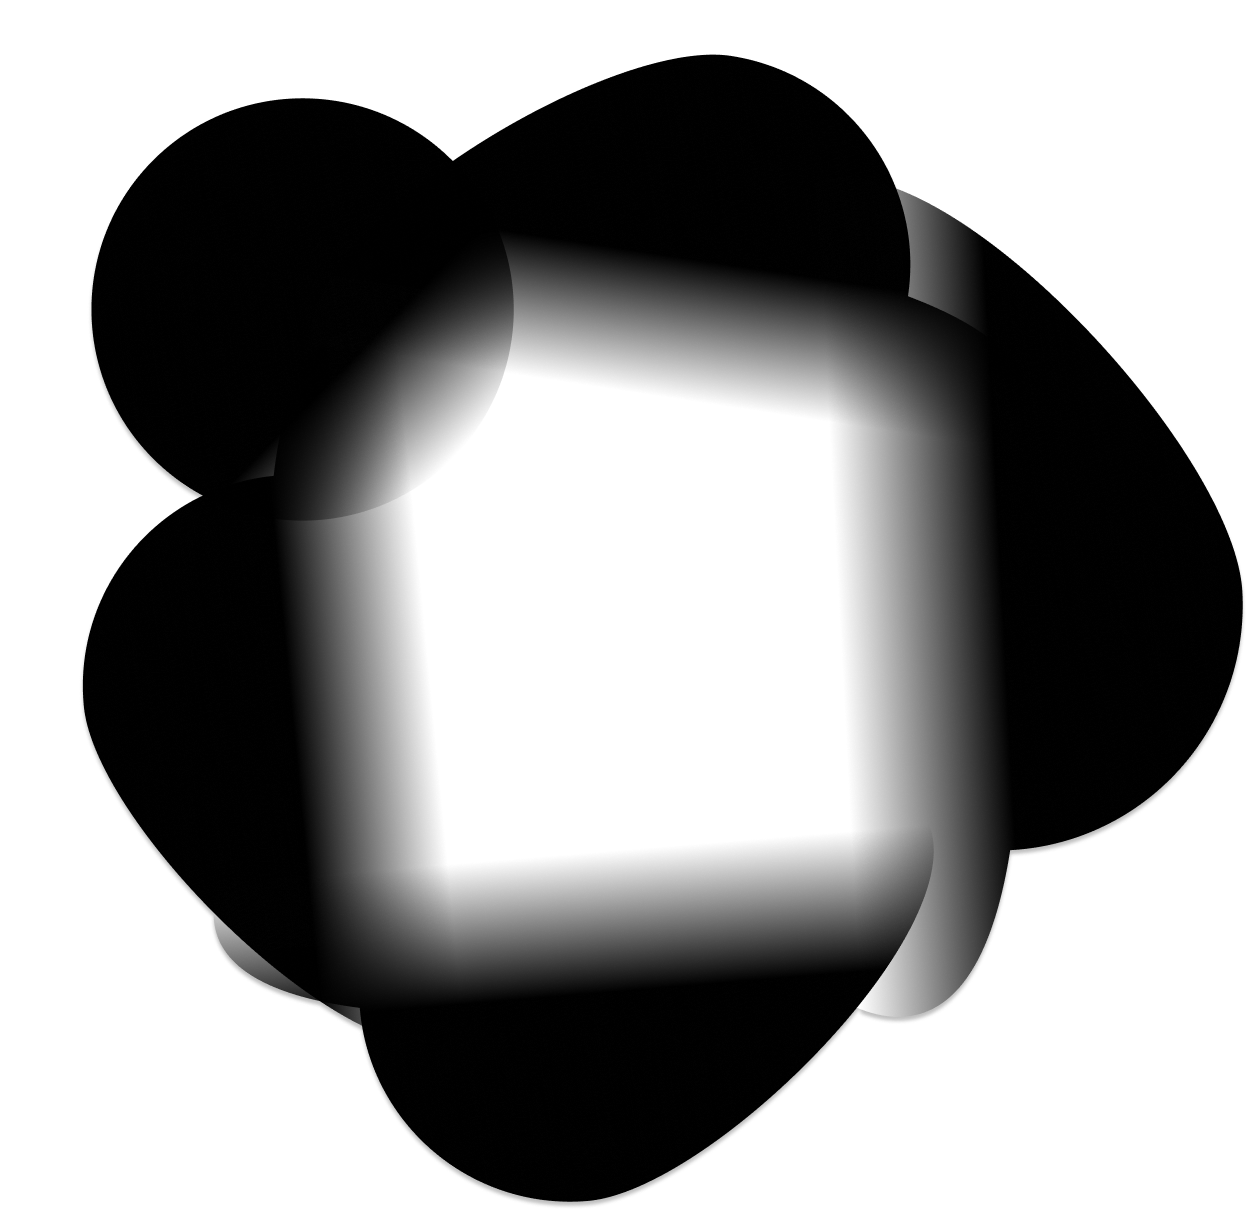
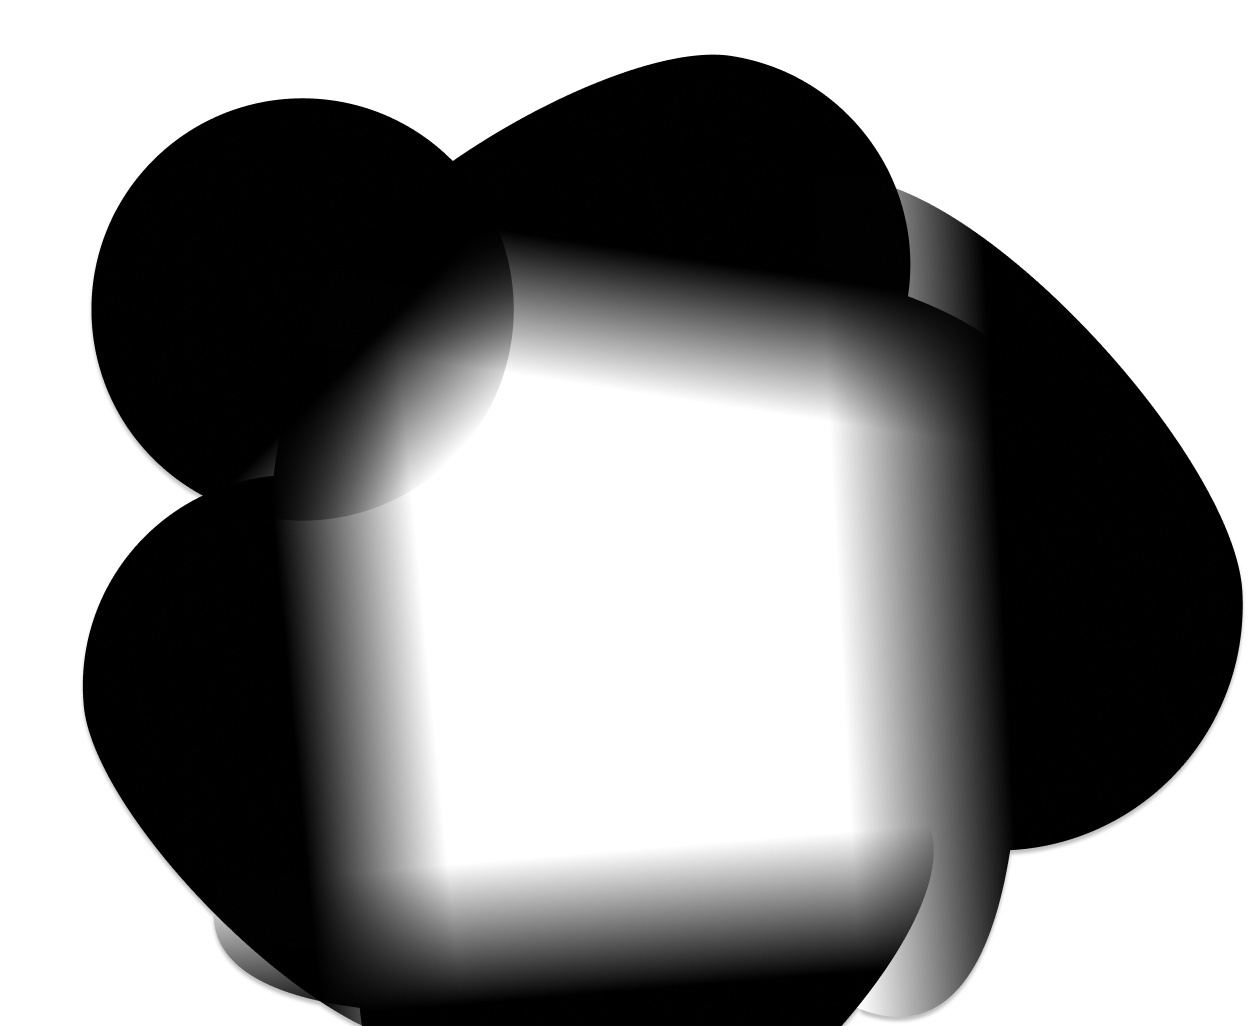
fix tablet

diff --git a/pages/index.tsx b/pages/index.tsx
@@ -38,13 +38,13 @@ export default function Home() {
       </Head>
       <main className=' bg-black px-4 min-h-[100vh]'>
         <div className='w-full main-content flex flex-col relative'>
-        <Image className='h-[200px]  shadow-xl -translate-y-20 m-auto w-auto background-bottom-right'alt="gradient circle" src={circle}></Image>
-        <Image className="md:hidden absolute shadow-xl mobile-waffle  h-[600px] md:h-[800px] top-0 opacity-50 -translate-x-[50%]  translate-y-24 md:translate-y-8" src={mobileBackground} alt="waffle for background"/>
+        <Image className='h-[200px] z-20 -translate-y-20 m-auto w-auto background-bottom-right'alt="gradient circle" src={circle}></Image>
+        <Image className=" absolute shadow-xl mobile-waffle md:-top-[100px]  h-[600px] md:min-h-[700px] top-0 opacity-50 -translate-x-[50%]  translate-y-24 md:translate-y-8" src={mobileBackground} alt="waffle for background"/>
         <div className="absolute waffle-shadow -translate-x-[60%] inset-0 h-[600px] md:h-[800px] top-0  rounded-lg bg-white-shadow opacity-75"></div>
-        <div className="absolute circle-shadow  md:hidden  top-[0] md:top-[0%] inset-0 h-[300px] md:h-[500px] top-0  rounded-lg bg-white-shadow opacity-75"></div>
+        <div className="absolute circle-shadow  top-[0] md:top-[0%] inset-0 h-[300px] md:h-[500px] top-0  rounded-lg bg-white-shadow opacity-75"></div>
           <div className='absolute left-animation center-div flex flex-col justify-center items-center'>
-            <h1 className='title   max-w-[400px]  flex justify-center z-10 text-white font-semibold text-3xl md:text-6xl text-center'>Focus on Your Craft. Leave the Rest to Us.</h1>
-            <p className='font-Raleway mid-content text-white  text-justify text-center top-[200px] flex justify-center'>Unleash the power of your art. Monetize, build your brand and connect with collectors.</p>
+            <h1 className='title   max-w-[400px]  flex justify-center z-10 text-white font-semibold text-3xl md:text-4xl text-center'>Focus on Your Craft. Leave the Rest to Us.</h1>
+            <p className='font-Raleway mid-content text-white  text-justify md:text-xl text-center top-[200px] flex justify-center'>Unleash the power of your art. Monetize, build your brand and connect with collectors.</p>
             <a href="https://twitter.com" className='flex w-full justify-center'><Image className='top-[400px]  w-[200px]'alt="join beta button" src={join}></Image></a>
         </div>
       </div>

diff --git a/styles/globals.css b/styles/globals.css
@@ -48,6 +48,13 @@ h1 {
     rgba(255, 255, 255, 0.15) 50%,
     rgba(255, 255, 255, 0) 60%
   );
+  @apply md:min-w-[550px] 
+}
+
+@layer utility {
+  .bg-md-gradient {
+    background: var(--md-gradient);
+  }
 }
 
 .main-content {
@@ -95,4 +102,11 @@ h1 {
 .mid-content {
 text-align:justify;
 max-width:300px;
+}
+
+
+@media (min-width: 768px) {
+  .circle-shadow{
+  background:radial-gradient( circle, rgba(255, 255, 255, 0.15) 25%, rgba(255, 255, 255, 0) 75%)
+  }
 }

diff --git a/tailwind.config.js b/tailwind.config.js
@@ -5,7 +5,9 @@ module.exports = {
     "./components/**/*.{js,ts,jsx,tsx}",
   ],
   theme: {
-    extend: {},
+    extend: {
+      colors:{'md-gradient':'radial-gradient( circle, rgba(255, 255, 255, 0.15) 39%, rgba(255, 255, 255, 0) 75% )'}
+    },
   },
   plugins: [],
 }
